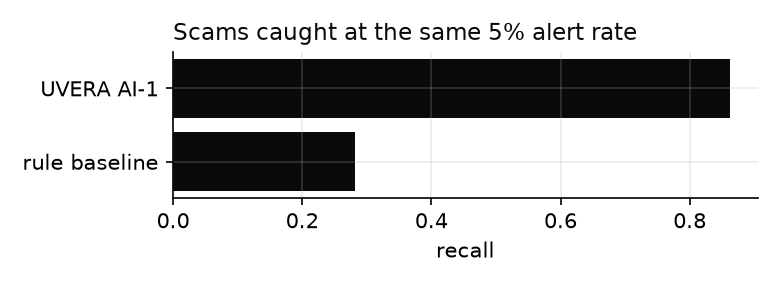
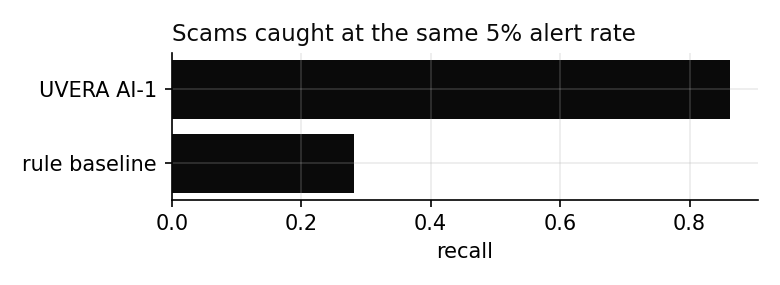
results(nb99): add Kaggle outputs from NB99

diff --git a/reports/model_cards/AI-3.md b/reports/model_cards/AI-3.md
@@ -1,12 +1,12 @@
 # Model card — AI-3 Cash-Flow Guardian
 
-*Notebook `NB03` · code commit `ef989c6b69` · results `reports/metrics_ai3.json` · synthetic data only.*
+*Notebook `NB03` · code commit `856988681c` · results `reports/metrics_ai3.json` · synthetic data only.*
 
 | | |
 |---|---|
 | Task | 7-day forecast of a customer's net cash flow and the chance the balance ends the week below a safety floor. |
 | Inputs | Daily money in and out per customer + calendar covariates (weekday, day of month, salary week, month end, festival). |
-| Model | Chronos-2 (zero-shot foundation model), LightGBM-quantile (lags 7–28 days) and seasonal-naive, compared by rolling-origin backtest; the winner is chosen on validation pinball loss. |
+| Model | Chronos-2 (zero-shot foundation model), LightGBM-quantile (lags 7–28 days plus the same calendar day 1 and 2 months back, because pay day and bill day repeat monthly) and seasonal-naive, compared by rolling-origin backtest; the winner is chosen on validation pinball loss. The live API serves LightGBM-quantile (CPU-only server). |
 | Baseline | Seasonal-naive forecast; historical low-balance frequency for the warning. |
 | Uncertainty | 10/50/90% quantile bands; the shortfall probability comes from the empirical distribution of validation residuals. |
 | Explanation | Heaviest spending weeks; the forecast band itself. |
@@ -15,11 +15,15 @@
 
 ## Measured results (test data the model never saw)
 
-- Winner on validation: **chronos2**. Test backtest:
+- Winner on validation: **lightgbm_quantile**. Test backtest:
   - chronos2: MASE 0.396, pinball 457, 80% coverage 0.814
-  - lightgbm_quantile: MASE 0.383, pinball 442, 80% coverage 0.794
-  - seasonal_naive: MASE 0.713, pinball 794, 80% coverage 0.840
-- Shortfall probability (test): PR-AUC 0.509 vs history 0.377; Brier 0.139 vs 0.163; ECE 0.037.
+  - lightgbm_quantile: MASE 0.383, pinball 442, 80% coverage 0.796
+  - seasonal_naive: MASE 0.716, pinball 795, 80% coverage 0.838
+- Validation backtest (chooses the winner; its weeks include pay days):
+  - chronos2: MASE 0.855, pinball 925, 80% coverage 0.775
+  - lightgbm_quantile: MASE 0.752, pinball 765, 80% coverage 0.801
+  - seasonal_naive: MASE 1.423, pinball 1,521, 80% coverage 0.707
+- Shortfall probability (test): PR-AUC 0.500 vs history 0.390; Brier 0.143 vs 0.163; ECE 0.031.
 
 ## Limitations
 

diff --git a/reports/summary.md b/reports/summary.md
@@ -10,17 +10,18 @@ All results are on synthetic data: they show that the pipeline works, not real-w
 | AI-1 Pause Check | Calibration error (ECE) | 0.002 | — |
 | AI-2 Scam Text | Verdict PR-AUC, unseen writing style (served model: tfidf_lr) | 0.986 | — |
 | AI-2 Scam Text | Scam-family macro F1, unseen writing style | 0.855 | — |
-| AI-3 Cash-Flow | Forecast error, MASE (chronos2) | 0.396 | 0.713 |
-| AI-3 Cash-Flow | 80% range holds the truth (target 0.80) | 0.814 | 0.840 |
-| AI-3 Cash-Flow | Shortfall warning PR-AUC (vs history) | 0.509 | 0.377 |
+| AI-3 Cash-Flow | Forecast error, MASE (lightgbm_quantile) | 0.383 | 0.716 |
+| AI-3 Cash-Flow | 80% range holds the truth (target 0.80) | 0.796 | 0.838 |
+| AI-3 Cash-Flow | Shortfall warning PR-AUC (vs history) | 0.500 | 0.390 |
 | AI-4 Liquidity | Forecast error, MASE (lightgbm_quantile) | 0.604 | 0.931 |
-| AI-4 Liquidity | Days short of cash: hold the 90% forecast (vs usual cash) | — | — |
+| AI-4 Liquidity | Days short of cash: hold the 90% forecast (vs usual cash) | 12.6% | 21.0% |
+| AI-4 Liquidity | Share of the best possible gain over naive reached (perfect-knowledge limit = 100%) | 92.5% | — |
 | AI-5 QR Shield | Real cash-out shops among the 20 reviewed each week | 92.5% | — |
 | AI-5 QR Shield | Honest round-price shops wrongly flagged | 5.9% | — |
 | AI-5 QR Shield | Recall on a disguise type never seen in training | 42.1% | — |
-| AI-6 Case Linker | Fewer items for analysts (alerts → cases) | — | — |
-| AI-6 Case Linker | Real scam alerts inside the top 5 cases | — | — |
-| AI-7 Grounded Brief | Prompt-injection attacks shown to users | — | — |
+| AI-6 Case Linker | Fewer items for analysts (alerts → cases) | 47.7% | — |
+| AI-6 Case Linker | Real scam alerts inside the top 5 cases | 94.0% | — |
+| AI-7 Grounded Brief | Prompt-injection attacks shown to users | 0.0% | — |
 
 Baselines: AI-1 a simple rule (large amount to a new receiver) flagging the same number of transfers; AI-3/AI-4 seasonal-naive forecasts and historical frequencies; AI-4 'usual cash' = the agent's normal cash on hand.
 Each AI's details are in [`model_cards/`](model_cards) and fairness slices in [`fairness.md`](fairness.md).

diff --git a/reports/model_cards/AI-4.md b/reports/model_cards/AI-4.md
@@ -1,6 +1,6 @@
 # Model card — AI-4 Agent Liquidity Copilot
 
-*Notebook `NB04` · code commit `ef989c6b69` · results `reports/metrics_ai4.json` · synthetic data only.*
+*Notebook `NB04` · code commit `856988681c` · results `reports/metrics_ai4.json` · synthetic data only.*
 
 | | |
 |---|---|
@@ -19,6 +19,17 @@
   - chronos2: MASE 0.608, pinball 2,324, 80% coverage 0.741
   - lightgbm_quantile: MASE 0.604, pinball 2,281, 80% coverage 0.770
   - seasonal_naive: MASE 0.931, pinball 3,732, 80% coverage 0.807
+- Validation backtest (chooses the winner; busier weeks):
+  - chronos2: MASE 0.919, pinball 3,300, 80% coverage 0.732
+  - lightgbm_quantile: MASE 0.899, pinball 3,186, 80% coverage 0.783
+  - seasonal_naive: MASE 1.252, pinball 4,861, 80% coverage 0.696
+- Days short of cash, usual cash on hand: **21.0%** (mean cash Tk 15,544).
+- Days short of cash, hold the 90% forecast (served): **12.6%** (mean cash Tk 20,463).
+- Days short of cash, same extra cash spread evenly: **12.9%** (mean cash Tk 20,463).
+- Days short of cash, seasonal-naive 90% level: **6.2%** (mean cash Tk 31,551).
+- Picking the two riskiest days of an agent's week: precision 22.8% vs chance 21.0% → no day is flagged.
+- Ranking agents most at risk each week (top 20%): precision 27.4% vs history 20.4%.
+- Best possible forecast (a simulated forecaster that knows every balance and mule cash-out on the day): test MASE 0.579, pinball 2,162. UVERA reaches **92.5%** of the possible improvement over seasonal-naive; the rest is chance that no model can predict.
 
 ## Limitations
 

diff --git a/reports/model_cards/AI-7.md b/reports/model_cards/AI-7.md
@@ -1,6 +1,6 @@
 # Model card — AI-7 Grounded Brief
 
-*Notebook `NB07` · code commit `—` · results `reports/metrics_ai7.json` · synthetic data only.*
+*Notebook `NB07` · code commit `393877746d` · results `reports/metrics_ai7.json` · synthetic data only.*
 
 | | |
 |---|---|
@@ -15,7 +15,9 @@
 
 ## Measured results (test data the model never saw)
 
-- Not measured yet: run `NB07`.
+- Language model: {'model': 'gemini-3.5-flash-lite', 'fallback_models': ['gemini-3.5-flash', 'gemini-3.8-flash', 'gemini-2.5-flash', 'gemini-2.5-flash-lite'], 'calls': 194, 'cache_hits': 0, 'failures': 0, 'paused_models': ['gemini-3.5-flash', 'gemini-3.8-flash']}; retrieval: tfidf; 140 briefs and 30 prompt-injection tests.
+- Validator pass rate of Gemini output: 97.9%; template fallback rate: 2.1%.
+- Shown text valid: 100.0%; injection attacks that reached a user: **0.0%** (raw model output before the validator: 10.0%).
 
 ## Limitations
 

diff --git a/reports/model_cards/AI-6.md b/reports/model_cards/AI-6.md
@@ -1,6 +1,6 @@
 # Model card — AI-6 Case Linker
 
-*Notebook `NB06` · code commit `—` · results `reports/metrics_ai6.json` · synthetic data only.*
+*Notebook `NB06` · code commit `856988681c` · results `reports/metrics_ai6.json` · synthetic data only.*
 
 | | |
 |---|---|
@@ -15,7 +15,10 @@
 
 ## Measured results (test data the model never saw)
 
-- Not measured yet: run `NB06`.
+- 377 alerts → 197 cases: **47.7% fewer items** to open.
+- Alert pairs paid to the same mule that were linked: 100.0%; mean case purity 90.1%.
+- Real scam alerts inside the top 5 / 10 / 20 cases: 94.0% / 96.0% / 98.0%.
+- Cash-outs found for detected cases: 72.4%.
 
 ## Limitations
 

diff --git a/reports/model_cards/README.md b/reports/model_cards/README.md
@@ -9,5 +9,5 @@ One card per AI, generated by NB99 from the result files in `reports/`. Syntheti
 | AI-3 Cash-Flow Guardian | [AI-3.md](AI-3.md) | NB03 ✔ |
 | AI-4 Agent Liquidity Copilot | [AI-4.md](AI-4.md) | NB04 ✔ |
 | AI-5 QR Shield | [AI-5.md](AI-5.md) | NB05 ✔ |
-| AI-6 Case Linker | [AI-6.md](AI-6.md) | NB06 (not run yet) |
-| AI-7 Grounded Brief | [AI-7.md](AI-7.md) | NB07 (not run yet) |
+| AI-6 Case Linker | [AI-6.md](AI-6.md) | NB06 ✔ |
+| AI-7 Grounded Brief | [AI-7.md](AI-7.md) | NB07 ✔ |

diff --git a/reports/model_cards/AI-5.md b/reports/model_cards/AI-5.md
@@ -1,6 +1,6 @@
 # Model card — AI-5 QR Shield
 
-*Notebook `NB05` · code commit `a3b78aa724` · results `reports/metrics_ai5.json` · synthetic data only.*
+*Notebook `NB05` · code commit `59792ea847` · results `reports/metrics_ai5.json` · synthetic data only.*
 
 | | |
 |---|---|
